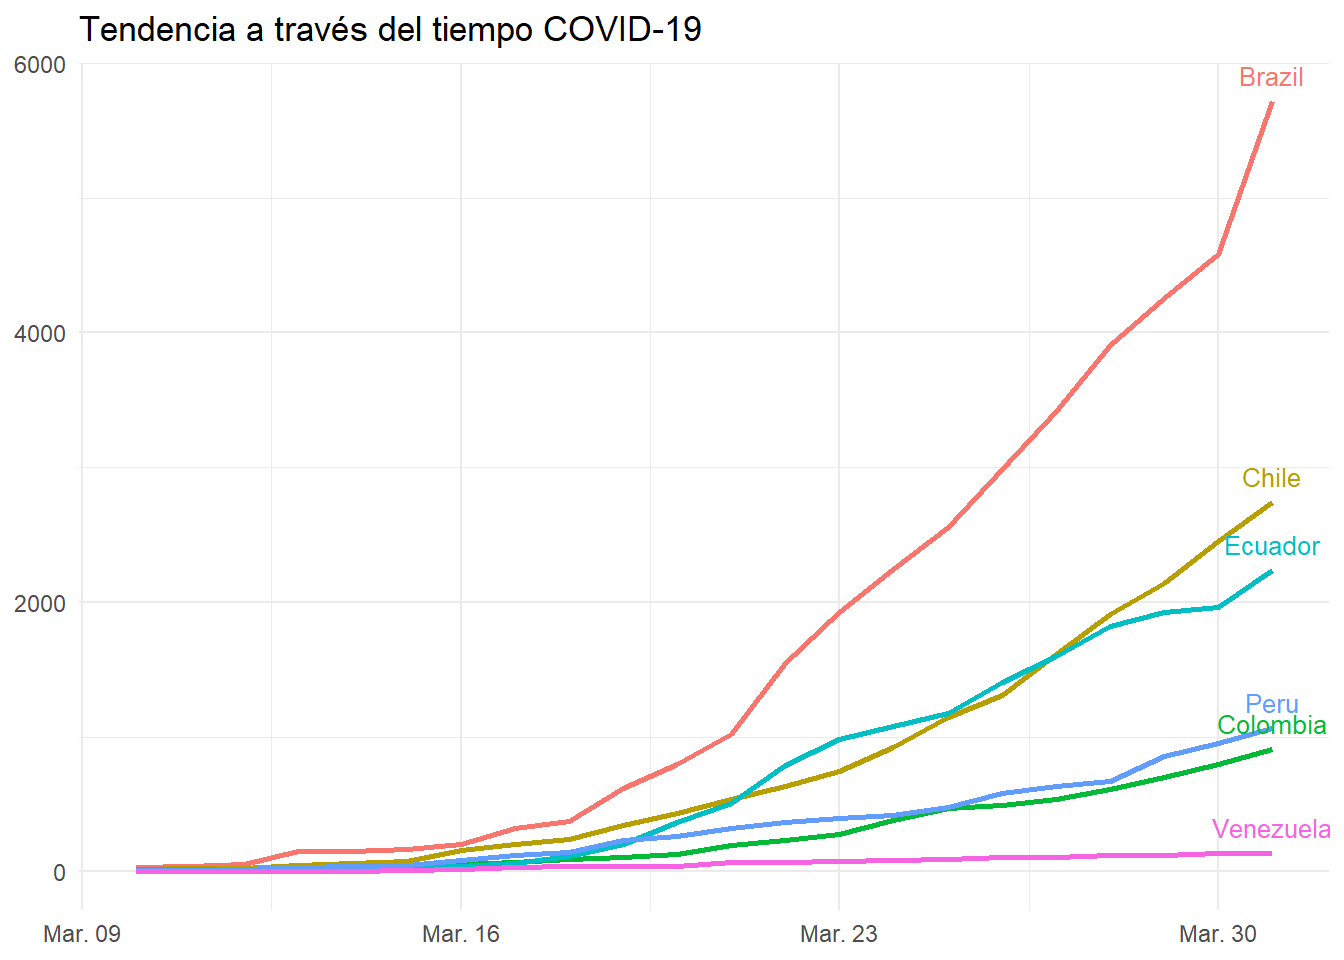
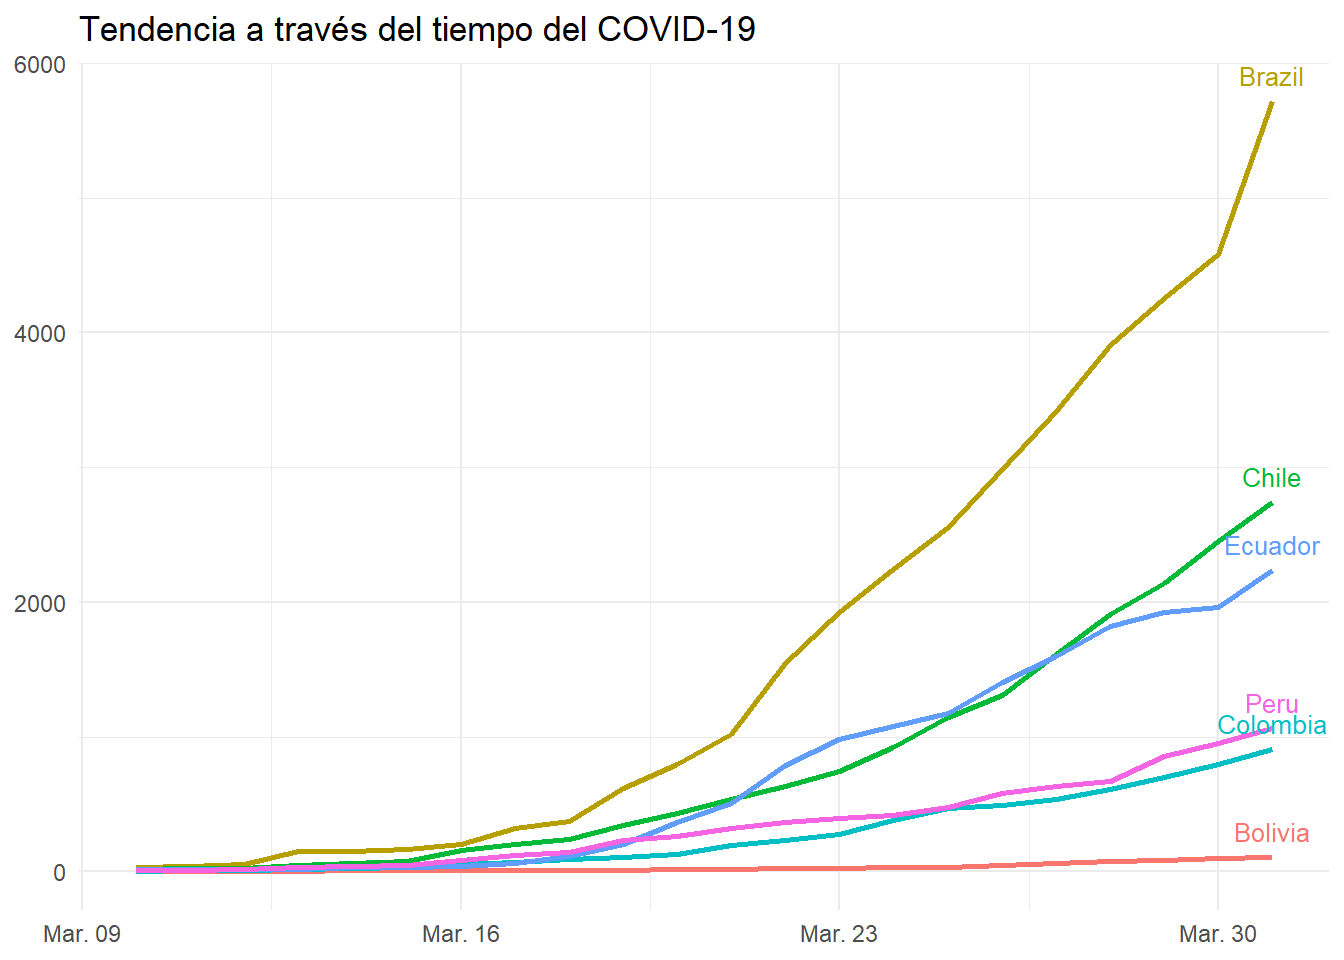
31032020

diff --git a/index.html b/index.html
@@ -12,7 +12,7 @@
 
 <meta name="author" content="Jorge David Morales" />
 
-<meta name="date" content="2020-03-31" />
+<meta name="date" content="2020-04-01" />
 
 <title>JD Website</title>
 
@@ -295,7 +295,7 @@ $(document).ready(function () {
 
 <h1 class="title toc-ignore">JD Website</h1>
 <h4 class="author">Jorge David Morales</h4>
-<h4 class="date">2020-03-31</h4>
+<h4 class="date">2020-04-01</h4>
 
 </div>
 
@@ -488,28 +488,28 @@ Colombia
 2020-03-31
 </td>
 <td style="text-align:right;">
-Venezuela
+Bolivia
 </td>
 <td style="text-align:center;">
-135
-</td>
-<td style="text-align:center;">
-39
-</td>
-<td style="text-align:center;">
-3
+107
 </td>
 <td style="text-align:center;">
 0
 </td>
 <td style="text-align:center;">
-93
-</td>
-<td style="text-align:right;">
-28.9%
+6
 </td>
 <td style="text-align:center;">
-2.22%
+10
+</td>
+<td style="text-align:center;">
+101
+</td>
+<td style="text-align:right;">
+0%
+</td>
+<td style="text-align:center;">
+5.61%
 </td>
 </tr>
 </tbody>
@@ -517,6 +517,8 @@ Venezuela
 <p><img src="index_files/figure-html/unnamed-chunk-6-1.png" width="672" /></p>
 <p><img src="index_files/figure-html/unnamed-chunk-7-1.png" width="672" /></p>
 <p><img src="index_files/figure-html/unnamed-chunk-8-1.png" width="672" /></p>
+<p><img src="index_files/figure-html/unnamed-chunk-9-1.png" width="672" /></p>
+<p><img src="index_files/figure-html/unnamed-chunk-10-1.png" width="672" /></p>
 </div>
 
 
